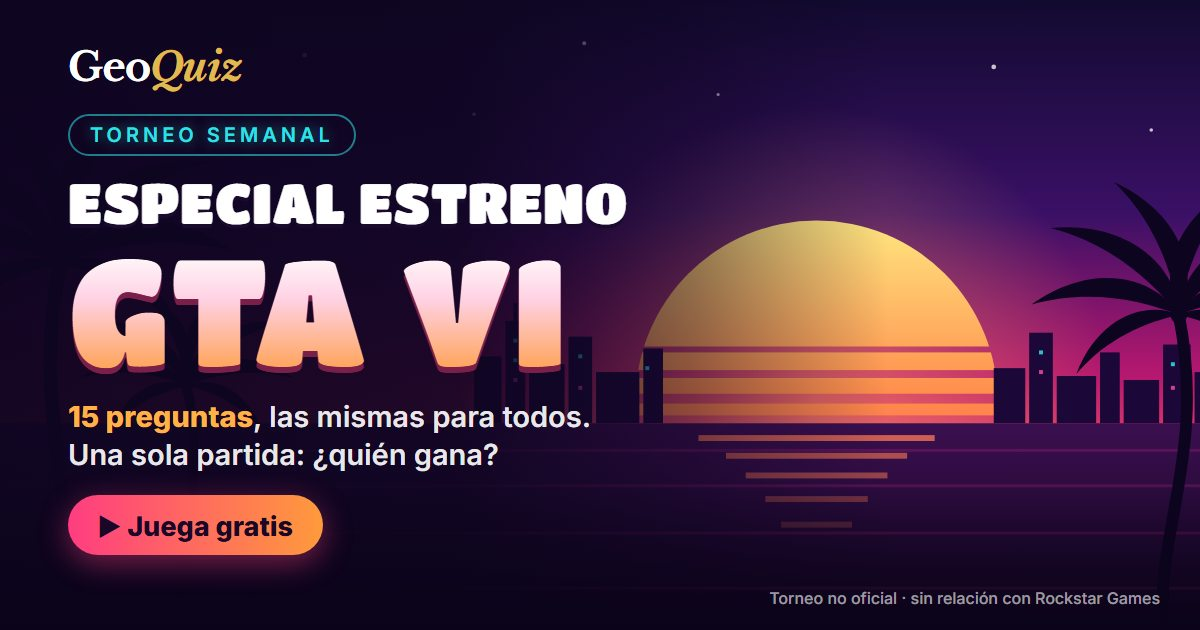
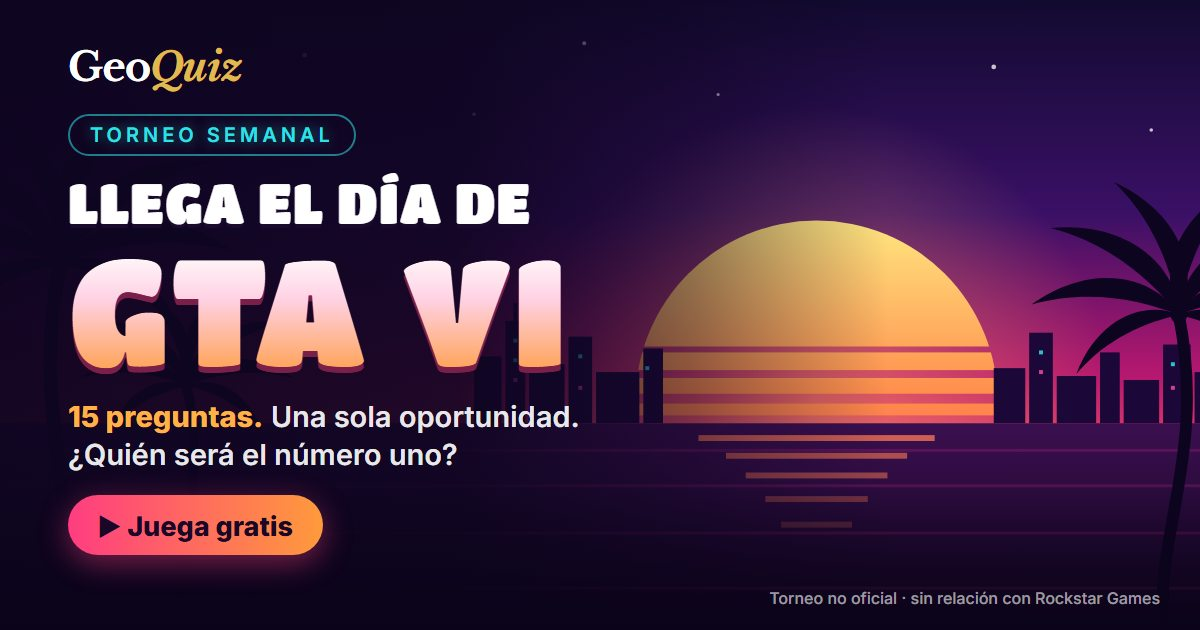
Mensaje más épico en la imagen del enlace y en la cuenta atrás; fuera «especial estreno»
Caché 20261117e, imagen del enlace ?v=5.

Changed region(s): [[0.0617, 0.2714, 0.5242, 0.3619], [0.0617, 0.6333, 0.4933, 0.754]]

diff --git a/index.html b/index.html
@@ -6,8 +6,8 @@
 <meta name="theme-color" content="#0d0820">
 <title>GeoQuiz — Guerras & Conflictos</title>
 <meta name="description" content="Trivia de geopolítica, guerras y conflictos: 521 preguntas en 13 categorías, seis modos de juego y ranking global.">
-<link rel="icon" href="img/favicon-32.png?v=20261117d" sizes="32x32">
-<link rel="apple-touch-icon" href="img/icono.png?v=20261117d">
+<link rel="icon" href="img/favicon-32.png?v=20261117e" sizes="32x32">
+<link rel="apple-touch-icon" href="img/icono.png?v=20261117e">
 <!-- Vista previa al compartir el enlace (WhatsApp, Telegram, redes). La imagen tiene
      que ir con URL absoluta: los rastreadores no resuelven rutas relativas. -->
 <meta property="og:type" content="website">
@@ -18,14 +18,14 @@
      guerras, conflictos y geopolítica, de la Antigüedad a Ucrania. Seis modos de juego y
      ranking compartido.» e imagen img/og.jpg?v=2 (sigue en la carpeta). Para estrenar una
      imagen nueva, subir el número de ?v= o WhatsApp enseñará la anterior (la guarda unos días). -->
-<meta property="og:title" content="Torneo GeoQuiz: especial estreno GTA VI">
+<meta property="og:title" content="Llega GTA VI: ¿quién será el número uno?">
 <meta property="og:description" content="15 preguntas, las mismas para todos y una sola partida. ¿Quién gana en tu grupo? Juega gratis desde el móvil.">
 <meta property="og:url" content="https://mediumturquoise-dugong-529601.hostingersite.com/">
-<meta property="og:image" content="https://mediumturquoise-dugong-529601.hostingersite.com/img/og-torneo.jpg?v=4">
+<meta property="og:image" content="https://mediumturquoise-dugong-529601.hostingersite.com/img/og-torneo.jpg?v=5">
 <meta property="og:image:type" content="image/jpeg">
 <meta property="og:image:width" content="1200">
 <meta property="og:image:height" content="630">
-<meta property="og:image:alt" content="Torneo semanal de GeoQuiz, especial estreno GTA VI: un atardecer de neón con palmeras. Torneo no oficial, sin relación con Rockstar Games.">
+<meta property="og:image:alt" content="Torneo semanal de GeoQuiz, el torneo de GTA VI: un atardecer de neón con palmeras. Torneo no oficial, sin relación con Rockstar Games.">
 <meta name="twitter:card" content="summary_large_image">
 <!-- Las fuentes se piden AQUÍ y no con un @import dentro del CSS. Con el @import, el
      navegador no sabía que existía fonts.googleapis.com hasta haber descargado y leído
@@ -43,7 +43,7 @@
      Desde GitHub Pages es un dominio distinto y esta es la primera petición que va allí;
      desde Hostinger es el propio origen y no estorba. -->
 <link rel="preconnect" href="https://mediumturquoise-dugong-529601.hostingersite.com" crossorigin>
-<link rel="stylesheet" href="css/styles.css?v=20261117d">
+<link rel="stylesheet" href="css/styles.css?v=20261117e">
 </head>
 <body>
 <!-- Iconos de la interfaz: se dibujan con trazo (currentColor), así toman el color del
@@ -127,7 +127,7 @@
         <div class="ta-titulo" id="ta-titulo">—</div>
         <div class="ta-tema" id="ta-tema"></div>
         <div class="ta-estreno" id="ta-estreno" aria-live="off">
-          <div class="te-rotulo" id="te-rotulo">Faltan para el estreno</div>
+          <div class="te-rotulo" id="te-rotulo">La cuenta atrás ha empezado</div>
           <div class="te-cifras" id="te-cifras"></div>
         </div>
         <div class="ta-datos">
@@ -308,7 +308,7 @@
   <footer class="firma">
     Hecho por Guillermo Moral<br>para sus mejores amigos
     <a class="firma-logo" href="https://tunegocioconestrategia.com" target="_blank" rel="noopener" aria-label="EstrategIA, tunegocioconestrategia.com">
-      <img src="img/estrategia-logo.png?v=20261117d" alt="EstrategIA" width="348" height="61" loading="lazy">
+      <img src="img/estrategia-logo.png?v=20261117e" alt="EstrategIA" width="348" height="61" loading="lazy">
     </a>
   </footer>
 
@@ -317,25 +317,25 @@
 <div class="share-toast" id="share-toast">¡Copiado!</div>
 
 <!-- El orden de carga importa: datos → estado → utilidades → pantallas → arranque. -->
-<script src="js/data/events.js?v=20261117d"></script>
-<script src="js/state.js?v=20261117d"></script>
-<script src="js/audio.js?v=20261117d"></script>
-<script src="js/utils.js?v=20261117d"></script>
-<script src="js/nube.js?v=20261117d"></script>
-<script src="js/theme.js?v=20261117d"></script>
-<script src="js/storage.js?v=20261117d"></script>
-<script src="js/crono.js?v=20261117d"></script>
-<script src="js/fechas.js?v=20261117d"></script>
-<script src="js/game.js?v=20261117d"></script>
-<script src="js/torneo.js?v=20261117d"></script>
-<script src="js/duelo.js?v=20261117d"></script>
-<script src="js/menu.js?v=20261117d"></script>
-<script src="js/avisos.js?v=20261117d"></script>
-<script src="js/main.js?v=20261117d"></script>
+<script src="js/data/events.js?v=20261117e"></script>
+<script src="js/state.js?v=20261117e"></script>
+<script src="js/audio.js?v=20261117e"></script>
+<script src="js/utils.js?v=20261117e"></script>
+<script src="js/nube.js?v=20261117e"></script>
+<script src="js/theme.js?v=20261117e"></script>
+<script src="js/storage.js?v=20261117e"></script>
+<script src="js/crono.js?v=20261117e"></script>
+<script src="js/fechas.js?v=20261117e"></script>
+<script src="js/game.js?v=20261117e"></script>
+<script src="js/torneo.js?v=20261117e"></script>
+<script src="js/duelo.js?v=20261117e"></script>
+<script src="js/menu.js?v=20261117e"></script>
+<script src="js/avisos.js?v=20261117e"></script>
+<script src="js/main.js?v=20261117e"></script>
 <!-- El banco va el ÚLTIMO y con defer: son 67 KB, el 59% del JavaScript, y el menú ya
      no lo necesita para dibujarse (sus claves salen de js/theme.js). Así la primera
      pantalla se pinta sin esperarlo. Nada de lo que corre al arrancar usa ALL_Q; quien
      lo usa es buildPool(), y eso no pasa hasta que alguien toca una categoría. -->
-<script defer src="js/data/questions.js?v=20261117d"></script>
+<script defer src="js/data/questions.js?v=20261117e"></script>
 </body>
 </html>

diff --git a/tools/og/og-torneo.html b/tools/og/og-torneo.html
@@ -29,8 +29,8 @@ h1 .b{display:block;font-size:150px;letter-spacing:.01em;background:linear-gradi
   <div class="txt">
     <div class="marca">Geo<em>Quiz</em></div>
     <div class="eyebrow">Torneo semanal</div>
-    <h1><span class="a">Especial estreno</span><span class="b">GTA VI</span></h1>
-    <div class="sub"><b>15 preguntas</b>, las mismas para todos.<br>Una sola partida: ¿quién gana?</div>
+    <h1><span class="a">Llega el día de</span><span class="b">GTA VI</span></h1>
+    <div class="sub"><b>15 preguntas.</b> Una sola oportunidad.<br>¿Quién será el número uno?</div>
     <div class="cta">▶ Juega gratis</div>
   </div>
   <div class="legal">Torneo no oficial · sin relación con Rockstar Games</div>

diff --git a/js/torneo.js b/js/torneo.js
@@ -660,7 +660,7 @@ function estrenoPintar() {
   const s = Math.floor(ms / 1000), d = Math.floor(s / 86400), h = Math.floor(s % 86400 / 3600),
         m = Math.floor(s % 3600 / 60), seg = s % 60;
   const celda = (n, t) => `<div class="te-celda"><span class="te-num">${String(n).padStart(2, '0')}</span><span class="te-eti">${t}</span></div>`;
-  rot.textContent = 'Faltan para el estreno de GTA VI';
+  rot.textContent = 'GTA VI llega en';
   cif.innerHTML = celda(d, 'DÍAS') + celda(h, 'HORAS') + celda(m, 'MIN') + celda(seg, 'SEG');
 }
 
